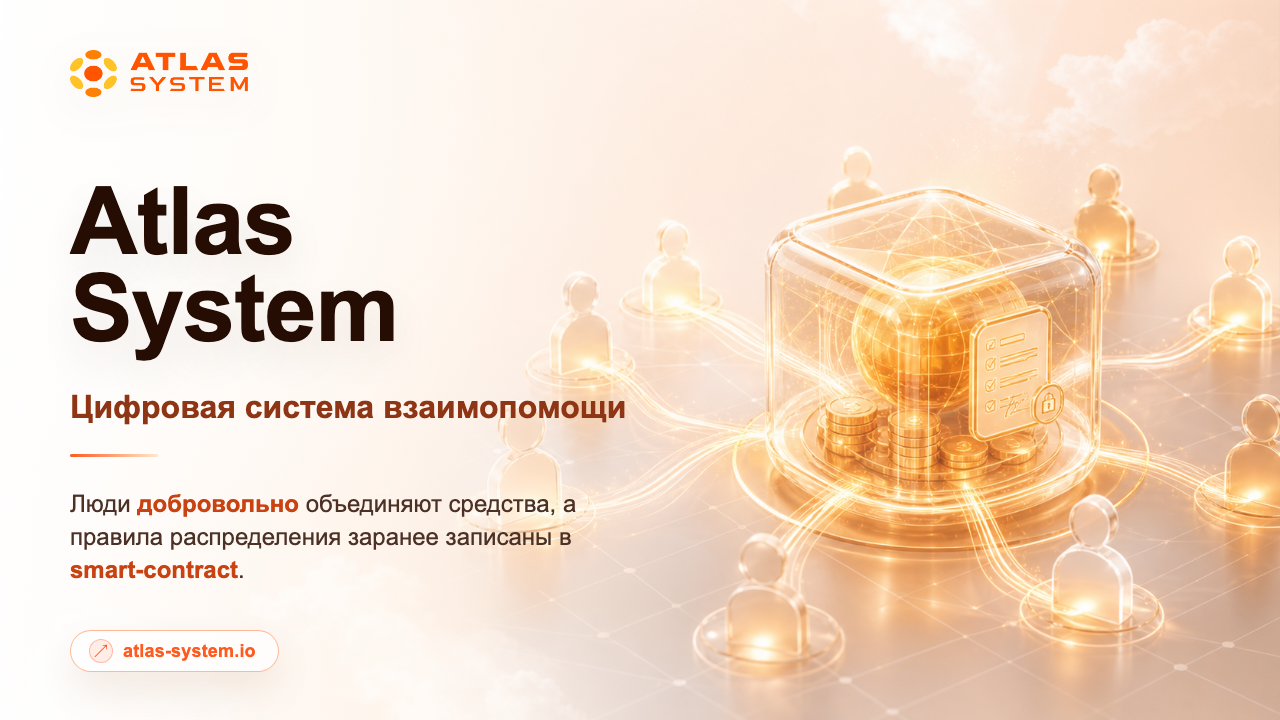
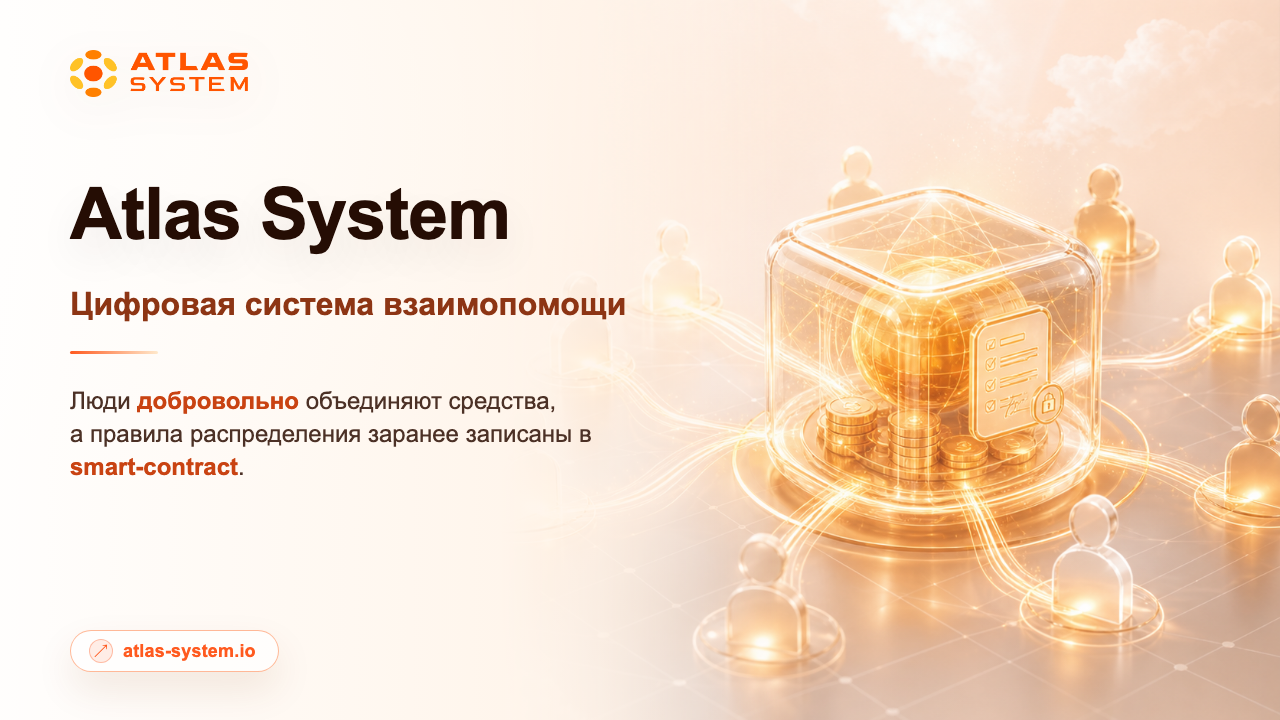
Expand Atlas presentation content plan

Changed region(s): [[0.0312, 0.2444, 0.5, 0.8556]]

diff --git a/src/modules/analytics/components/PresentationContentTab.jsx b/src/modules/analytics/components/PresentationContentTab.jsx
@@ -15,7 +15,211 @@ const presentationSlides = [
     ],
     image: "/generated/atlas-presentation-slide-01.png",
   },
+  {
+    id: "slide-02",
+    number: "02",
+    title: "Как это работает",
+    status: "Черновик",
+    description:
+      "Второй слайд объясняет механику без перегруза: участник использует цифровой кошелёк, smart-contract хранит заранее заданные правила, а ключевые действия фиксируются в блокчейне.",
+    slideText: [
+      "Как это работает",
+      "Кошелёк → smart-contract → прозрачное распределение",
+      "Участник подключает цифровой кошелёк. Smart-contract хранит правила и автоматически выполняет распределение по логике системы.",
+    ],
+    image: "/generated/atlas-presentation-slide-02.png",
+  },
+  {
+    id: "slide-03",
+    number: "03",
+    title: "Почему это прозрачно",
+    status: "Черновик",
+    description:
+      "Третий слайд закрывает главный вопрос доверия: правила записаны заранее, ключевые операции фиксируются on-chain, а участник может проверять статус, историю действий и условия smart-contract.",
+    slideText: [
+      "Почему это прозрачно",
+      "Правила записаны заранее, действия видны в блокчейне",
+      "Ключевые операции фиксируются on-chain. Участник видит статус цикла, историю действий и условия smart-contract.",
+    ],
+    image: "/generated/atlas-presentation-slide-03.png",
+  },
+  {
+    id: "slide-04",
+    number: "04",
+    title: "Smart Cycle",
+    status: "Черновик",
+    description:
+      "Четвёртый слайд вводит базовый продукт Atlas System простым языком: Smart Cycle — это цикл участия, где человек выбирает формат, оказывает добровольную помощь и отслеживает этапы работы в системе.",
+    slideText: [
+      "Smart Cycle",
+      "Базовый цикл участия в Atlas System",
+      "Участник выбирает формат цикла, оказывает добровольную помощь и видит этапы работы в системе.",
+    ],
+    image: "/generated/atlas-presentation-slide-04.png",
+  },
+  {
+    id: "slide-05",
+    number: "05",
+    title: "Форматы участия",
+    status: "План",
+    description:
+      "Слайд объясняет, что в системе есть разные форматы циклов: короткие тестовые варианты, lockup-циклы и daily-форматы. Без перегруза цифрами, чтобы новичок сначала понял принцип выбора.",
+    slideText: [
+      "Форматы участия",
+      "Каждый выбирает цикл под свой уровень готовности",
+      "В Atlas System есть разные форматы участия: от короткого теста до более длительных циклов. Пользователь сам выбирает подходящий вариант и действует по правилам системы.",
+    ],
+  },
+  {
+    id: "slide-06",
+    number: "06",
+    title: "Lockup Flow",
+    status: "План",
+    description:
+      "Слайд простыми словами объясняет lockup: средства отправляются в цикл на заранее понятный срок, после чего участник может запросить возврат помощи и добавочную помощь при наличии ликвидности.",
+    slideText: [
+      "Lockup Flow",
+      "Цикл с заранее понятным сроком",
+      "Участник выбирает формат, отправляет добровольную помощь в smart-contract и ждёт завершения lockup-периода. После этого можно запросить возврат помощи по правилам системы.",
+    ],
+  },
+  {
+    id: "slide-07",
+    number: "07",
+    title: "Daily Flow",
+    status: "План",
+    description:
+      "Слайд объясняет daily-механику: более длинный цикл, где добавочная помощь начисляется по дневной логике, а ключевые условия заранее видны участнику.",
+    slideText: [
+      "Daily Flow",
+      "Длинный цикл с дневной логикой",
+      "Daily Flow рассчитан на более длительное участие. Условия цикла, срок, базовая логика и возможная добавочная помощь заранее описаны в правилах smart-contract.",
+    ],
+  },
+  {
+    id: "slide-08",
+    number: "08",
+    title: "Финансовые возможности",
+    status: "План",
+    description:
+      "Обязательный слайд с таблицей доходности. Его нужно сделать аккуратно: как пример расчёта по выбранному формату, без агрессивного обещания гарантированной прибыли.",
+    slideText: [
+      "Финансовые возможности",
+      "Пример расчёта по выбранному циклу",
+      "Потенциальный результат зависит от выбранного формата, срока цикла и ликвидности smart-contract. Таблица показывает ориентировочный сценарий, а не гарантированный доход.",
+    ],
+  },
+  {
+    id: "slide-09",
+    number: "09",
+    title: "Предупреждение о рисках",
+    status: "План",
+    description:
+      "Слайд нужен для честной коммуникации: участие добровольное, доходность не гарантируется, возврат помощи зависит от правил системы и доступной ликвидности.",
+    slideText: [
+      "Предупреждение о рисках",
+      "Участие добровольное, результат не гарантирован",
+      "Средства направляются в smart-contract добровольно. Возврат помощи и добавочной помощи возможен только по правилам системы и при наличии достаточной ликвидности.",
+    ],
+  },
+  {
+    id: "slide-10",
+    number: "10",
+    title: "Как начать",
+    status: "План",
+    description:
+      "Пошаговый слайд для новичка: установить кошелёк, пополнить USDT BEP-20, подключить кошелёк, выбрать цикл, отправить помощь, затем отслеживать статус.",
+    slideText: [
+      "Как начать",
+      "Пять простых шагов для первого участия",
+      "Установите Web3-кошелёк, пополните его USDT в сети BEP-20, подключите к Atlas System, выберите цикл и отправьте добровольную помощь через smart-contract.",
+    ],
+  },
+  {
+    id: "slide-11",
+    number: "11",
+    title: "Партнёрская программа",
+    status: "План",
+    description:
+      "Обязательный слайд по партнёрке. Нужно объяснить не как MLM-давление, а как систему статусов, командного роста и бонусов по заранее заданным правилам.",
+    slideText: [
+      "Партнёрская программа",
+      "Рост команды, статусы и бонусная логика",
+      "Партнёрская программа помогает участникам развивать структуру, получать статусы и бонусы по правилам системы. Условия зависят от личного и командного объёма.",
+    ],
+  },
+  {
+    id: "slide-12",
+    number: "12",
+    title: "Экосистема Atlas",
+    status: "План",
+    description:
+      "Слайд показывает, что Atlas System — не один продукт навсегда, а развивающаяся экосистема: knowledge hub, invite&earn, academy, P2P exchange, wallet, governance и другие направления.",
+    slideText: [
+      "Экосистема Atlas",
+      "Мы строим не один продукт, а систему",
+      "Atlas System развивается как экосистема: финансовые циклы, база знаний, обучение, партнёрские инструменты, P2P-направление, кошелёк и DAO-механики.",
+    ],
+  },
+  {
+    id: "slide-13",
+    number: "13",
+    title: "Архитектура и управление",
+    status: "План",
+    description:
+      "Слайд объясняет управление проектом: техническая команда, безопасность, инфраструктура, открытые правила, развитие DAO-процедур и постепенная прозрачность команды.",
+    slideText: [
+      "Архитектура и управление",
+      "Технологии, безопасность и DAO-логика",
+      "Система развивается технической командой в области Web3. Основная логика закрепляется в smart-contract, а управление постепенно переводится в прозрачные DAO-процедуры.",
+    ],
+  },
+  {
+    id: "slide-14",
+    number: "14",
+    title: "Для кого Atlas System",
+    status: "План",
+    description:
+      "Слайд собирает аудитории: новичок, Web3-пользователь, партнёр, лидер команды, человек, которому важны прозрачность и понятные правила.",
+    slideText: [
+      "Для кого Atlas System",
+      "Для людей, которые хотят понятных правил",
+      "Atlas System подходит тем, кто хочет разобраться в Web3-формате взаимопомощи, участвовать добровольно, видеть правила заранее и развивать команду без закрытых схем.",
+    ],
+  },
+  {
+    id: "slide-15",
+    number: "15",
+    title: "Главная идея",
+    status: "План",
+    description:
+      "Финальный смысловой слайд: Atlas System — переход от закрытых обещаний к прозрачной цифровой системе, где правила видны заранее, а действия фиксируются в блокчейне.",
+    slideText: [
+      "Главная идея",
+      "От закрытых обещаний — к прозрачной цифровой системе",
+      "Atlas System объединяет добровольное участие, smart-contract, on-chain прозрачность и экосистемный подход, чтобы сделать механику понятной для обычного пользователя.",
+    ],
+  },
+  {
+    id: "slide-16",
+    number: "16",
+    title: "Присоединяйтесь",
+    status: "План",
+    description:
+      "Финальный CTA-слайд с доменом, QR-кодом или ссылкой. Тон спокойный: изучить материалы, проверить правила, подключиться осознанно.",
+    slideText: [
+      "Присоединяйтесь к Atlas System",
+      "Изучите правила и принимайте решение осознанно",
+      "Перейдите на atlas-system.io, изучите материалы, проверьте условия циклов и подключайтесь только после того, как механика стала понятной.",
+    ],
+  },
 ];
+
+function getSlidesCountLabel(count) {
+  if (count % 10 === 1 && count % 100 !== 11) return `${count} слайд`;
+  if ([2, 3, 4].includes(count % 10) && ![12, 13, 14].includes(count % 100)) return `${count} слайда`;
+  return `${count} слайдов`;
+}
 
 function PresentationContentTab() {
   const [activeSlideId, setActiveSlideId] = useState(presentationSlides[0]?.id);
@@ -31,7 +235,7 @@ function PresentationContentTab() {
             Здесь собираем финальный текст и изображение каждого слайда по мере согласования.
           </p>
         </div>
-        <span className="analytics-content-presentation-count">{presentationSlides.length} слайд</span>
+        <span className="analytics-content-presentation-count">{getSlidesCountLabel(presentationSlides.length)}</span>
       </div>
 
       <div className="analytics-content-presentation-layout">
@@ -67,7 +271,15 @@ function PresentationContentTab() {
           </div>
 
           <div className="analytics-content-slide-preview">
-            <img src={activeSlide.image} alt={`Слайд ${activeSlide.number}: ${activeSlide.title}`} />
+            {activeSlide.image ? (
+              <img src={activeSlide.image} alt={`Слайд ${activeSlide.number}: ${activeSlide.title}`} />
+            ) : (
+              <div className="analytics-content-slide-empty">
+                <span>{activeSlide.number}</span>
+                <strong>Визуал пока не создан</strong>
+                <p>Здесь появится финальная картинка после согласования текста и дизайна слайда.</p>
+              </div>
+            )}
           </div>
         </article>
       </div>

diff --git a/src/modules/analytics/styles/analytics.css b/src/modules/analytics/styles/analytics.css
@@ -213,6 +213,9 @@
   display: grid;
   align-content: start;
   gap: 0.75rem;
+  max-height: 76vh;
+  overflow: auto;
+  padding-right: 0.25rem;
 }
 
 .analytics-content-slide-tab {
@@ -323,6 +326,43 @@
   display: block;
   width: 100%;
   height: auto;
+}
+
+.analytics-content-slide-empty {
+  min-height: 360px;
+  display: grid;
+  place-items: center;
+  align-content: center;
+  gap: 0.65rem;
+  padding: 2rem;
+  color: #aeb8c7;
+  text-align: center;
+  background:
+    linear-gradient(135deg, rgba(255, 147, 0, 0.08), transparent 38%),
+    repeating-linear-gradient(135deg, rgba(255, 255, 255, 0.035) 0 1px, transparent 1px 18px),
+    rgba(5, 10, 20, 0.3);
+}
+
+.analytics-content-slide-empty span {
+  display: grid;
+  place-items: center;
+  width: 54px;
+  height: 54px;
+  border-radius: 16px;
+  background: rgba(255, 90, 31, 0.16);
+  color: #ff9b66;
+  font-weight: 900;
+}
+
+.analytics-content-slide-empty strong {
+  color: #f4f8ff;
+  font-size: 1.15rem;
+}
+
+.analytics-content-slide-empty p {
+  max-width: 420px;
+  margin: 0;
+  line-height: 1.6;
 }
 
 .analytics-surface {

diff --git a/src/modules/analytics/AnalyticsPage.jsx b/src/modules/analytics/AnalyticsPage.jsx
@@ -220,7 +220,7 @@ function buildCrmContentStats(source = {}) {
     ["Параметры", countTemplateRows(source.knowledge, defaultKnowledgeTemplate), "параметров", "accent"],
     ["Датасет", countDatasetBlocks(source.dataset, defaultTrainingDataset), "блоков", "success"],
     ["FAQ", countTemplateRows(source.faq, defaultFaqTemplate), "вопросов", "success"],
-    ["Презентация", 1, "слайд", "accent"],
+    ["Презентация", 16, "слайдов", "accent"],
     ["CEO", PRESENTATION_SLIDES.length, "слайдов", "accent"],
     ["Ролики", videos.length, "роликов", "success"],
     ["Термины", countTemplateRows(source.terminology, defaultTerminologyTemplate), "терминов", "accent"],